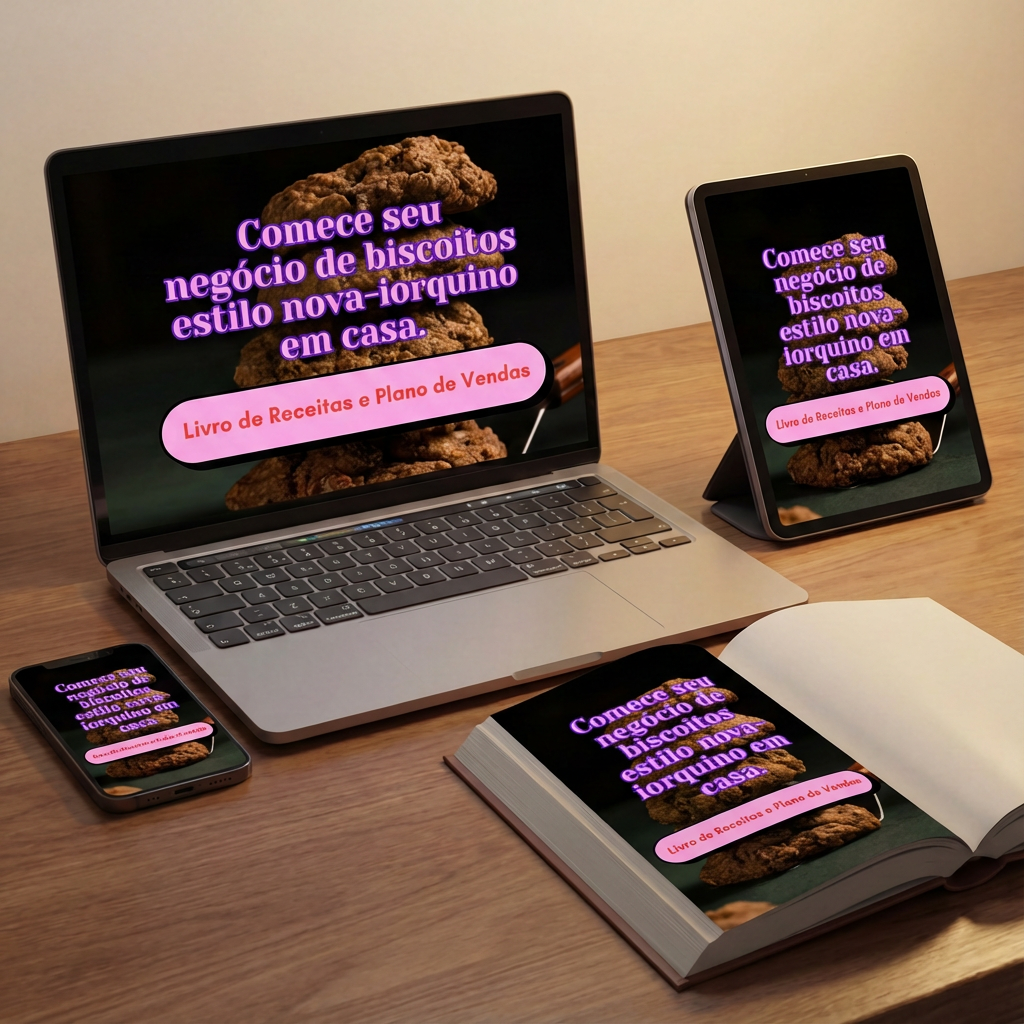
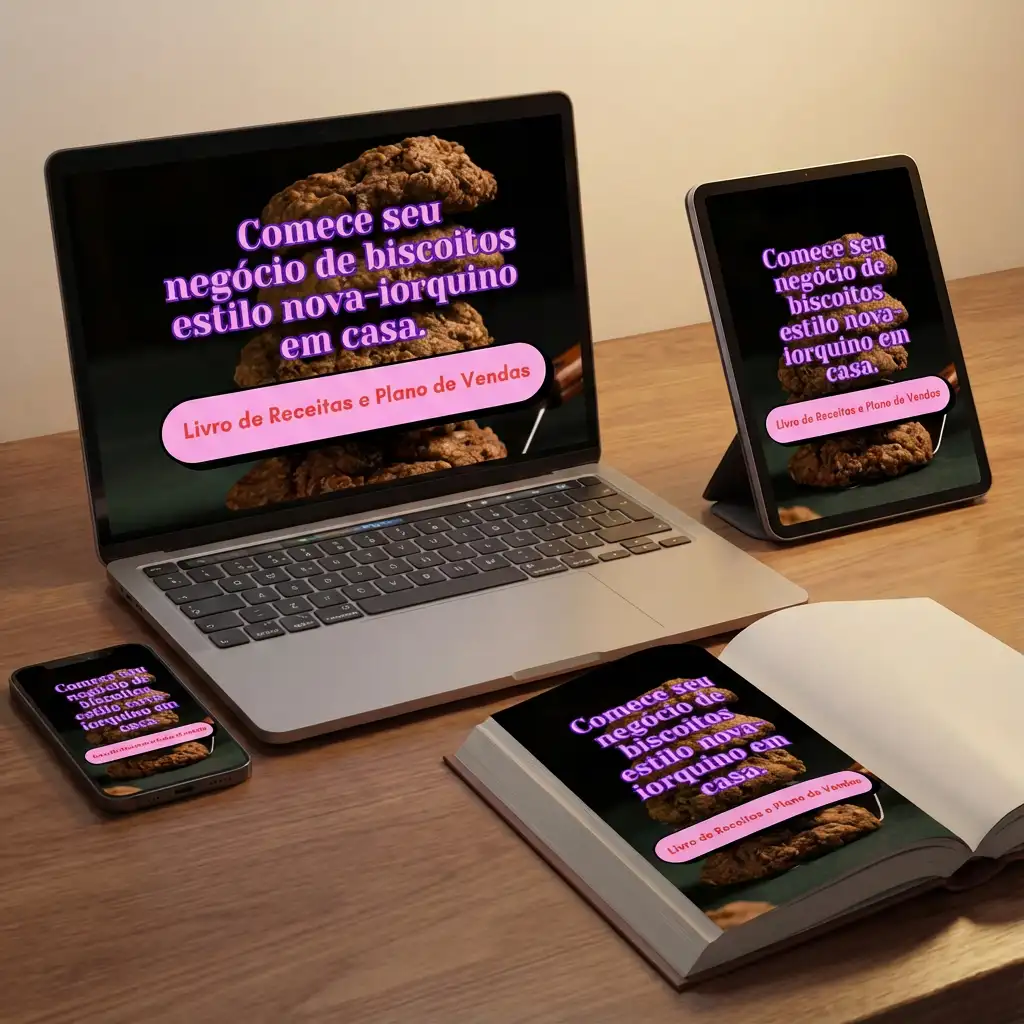
Improve PageSpeed: recompress mockups q55, async CSS + critical inline
Mockup images recompressed at quality 55 (31-94% smaller). Added Vite
plugin to make CSS non-render-blocking (print→all pattern). Inlined
critical CSS variables and body styles to prevent white flash.

diff --git a/vite.config.ts b/vite.config.ts
@@ -1,6 +1,20 @@
-import { defineConfig } from "vite";
+import { defineConfig, type Plugin } from "vite";
 import react from "@vitejs/plugin-react-swc";
 import path from "path";
+
+/** Convert the build CSS <link> to async (print→all) so it's non-render-blocking. */
+function asyncCssPlugin(): Plugin {
+  return {
+    name: 'async-css',
+    enforce: 'post',
+    transformIndexHtml(html) {
+      return html.replace(
+        /<link rel="stylesheet" crossorigin href="(\/assets\/[^"]+\.css)">/,
+        `<link rel="stylesheet" href="$1" media="print" onload="this.media='all'">\n    <noscript><link rel="stylesheet" href="$1"></noscript>`
+      );
+    },
+  };
+}
 
 // https://vitejs.dev/config/
 export default defineConfig(({ mode }) => ({
@@ -8,7 +22,7 @@ export default defineConfig(({ mode }) => ({
     host: "::",
     port: 8080,
   },
-  plugins: [react()].filter(Boolean),
+  plugins: [react(), asyncCssPlugin()].filter(Boolean),
   resolve: {
     alias: {
       "@": path.resolve(__dirname, "./src"),

diff --git a/index.html b/index.html
@@ -103,6 +103,14 @@
       });
     </script>
     <!-- End Meta Pixel Code -->
+
+    <!-- Critical CSS: prevents white flash while full stylesheet loads async -->
+    <style>
+      :root{--background:22 100% 97%;--foreground:15 38% 17%;--card:0 0% 100%;--border:22 30% 85%;--gold:38 65% 56%;--pink:336 100% 72%;--chocolate:15 38% 17%;--radius:1rem;--gradient-hero:linear-gradient(180deg,hsl(22 100% 97%) 0%,hsl(38 60% 94%) 100%);--shadow-card:0 4px 24px hsl(15 38% 17%/.08)}
+      html{scroll-behavior:smooth}
+      body{margin:0;background-image:var(--gradient-hero);background-attachment:fixed;background-color:hsl(var(--background));color:hsl(var(--foreground));font-family:'Poppins',system-ui,sans-serif;-webkit-font-smoothing:antialiased}
+      #root{position:relative;z-index:1}
+    </style>
   </head>
 
   <body>
